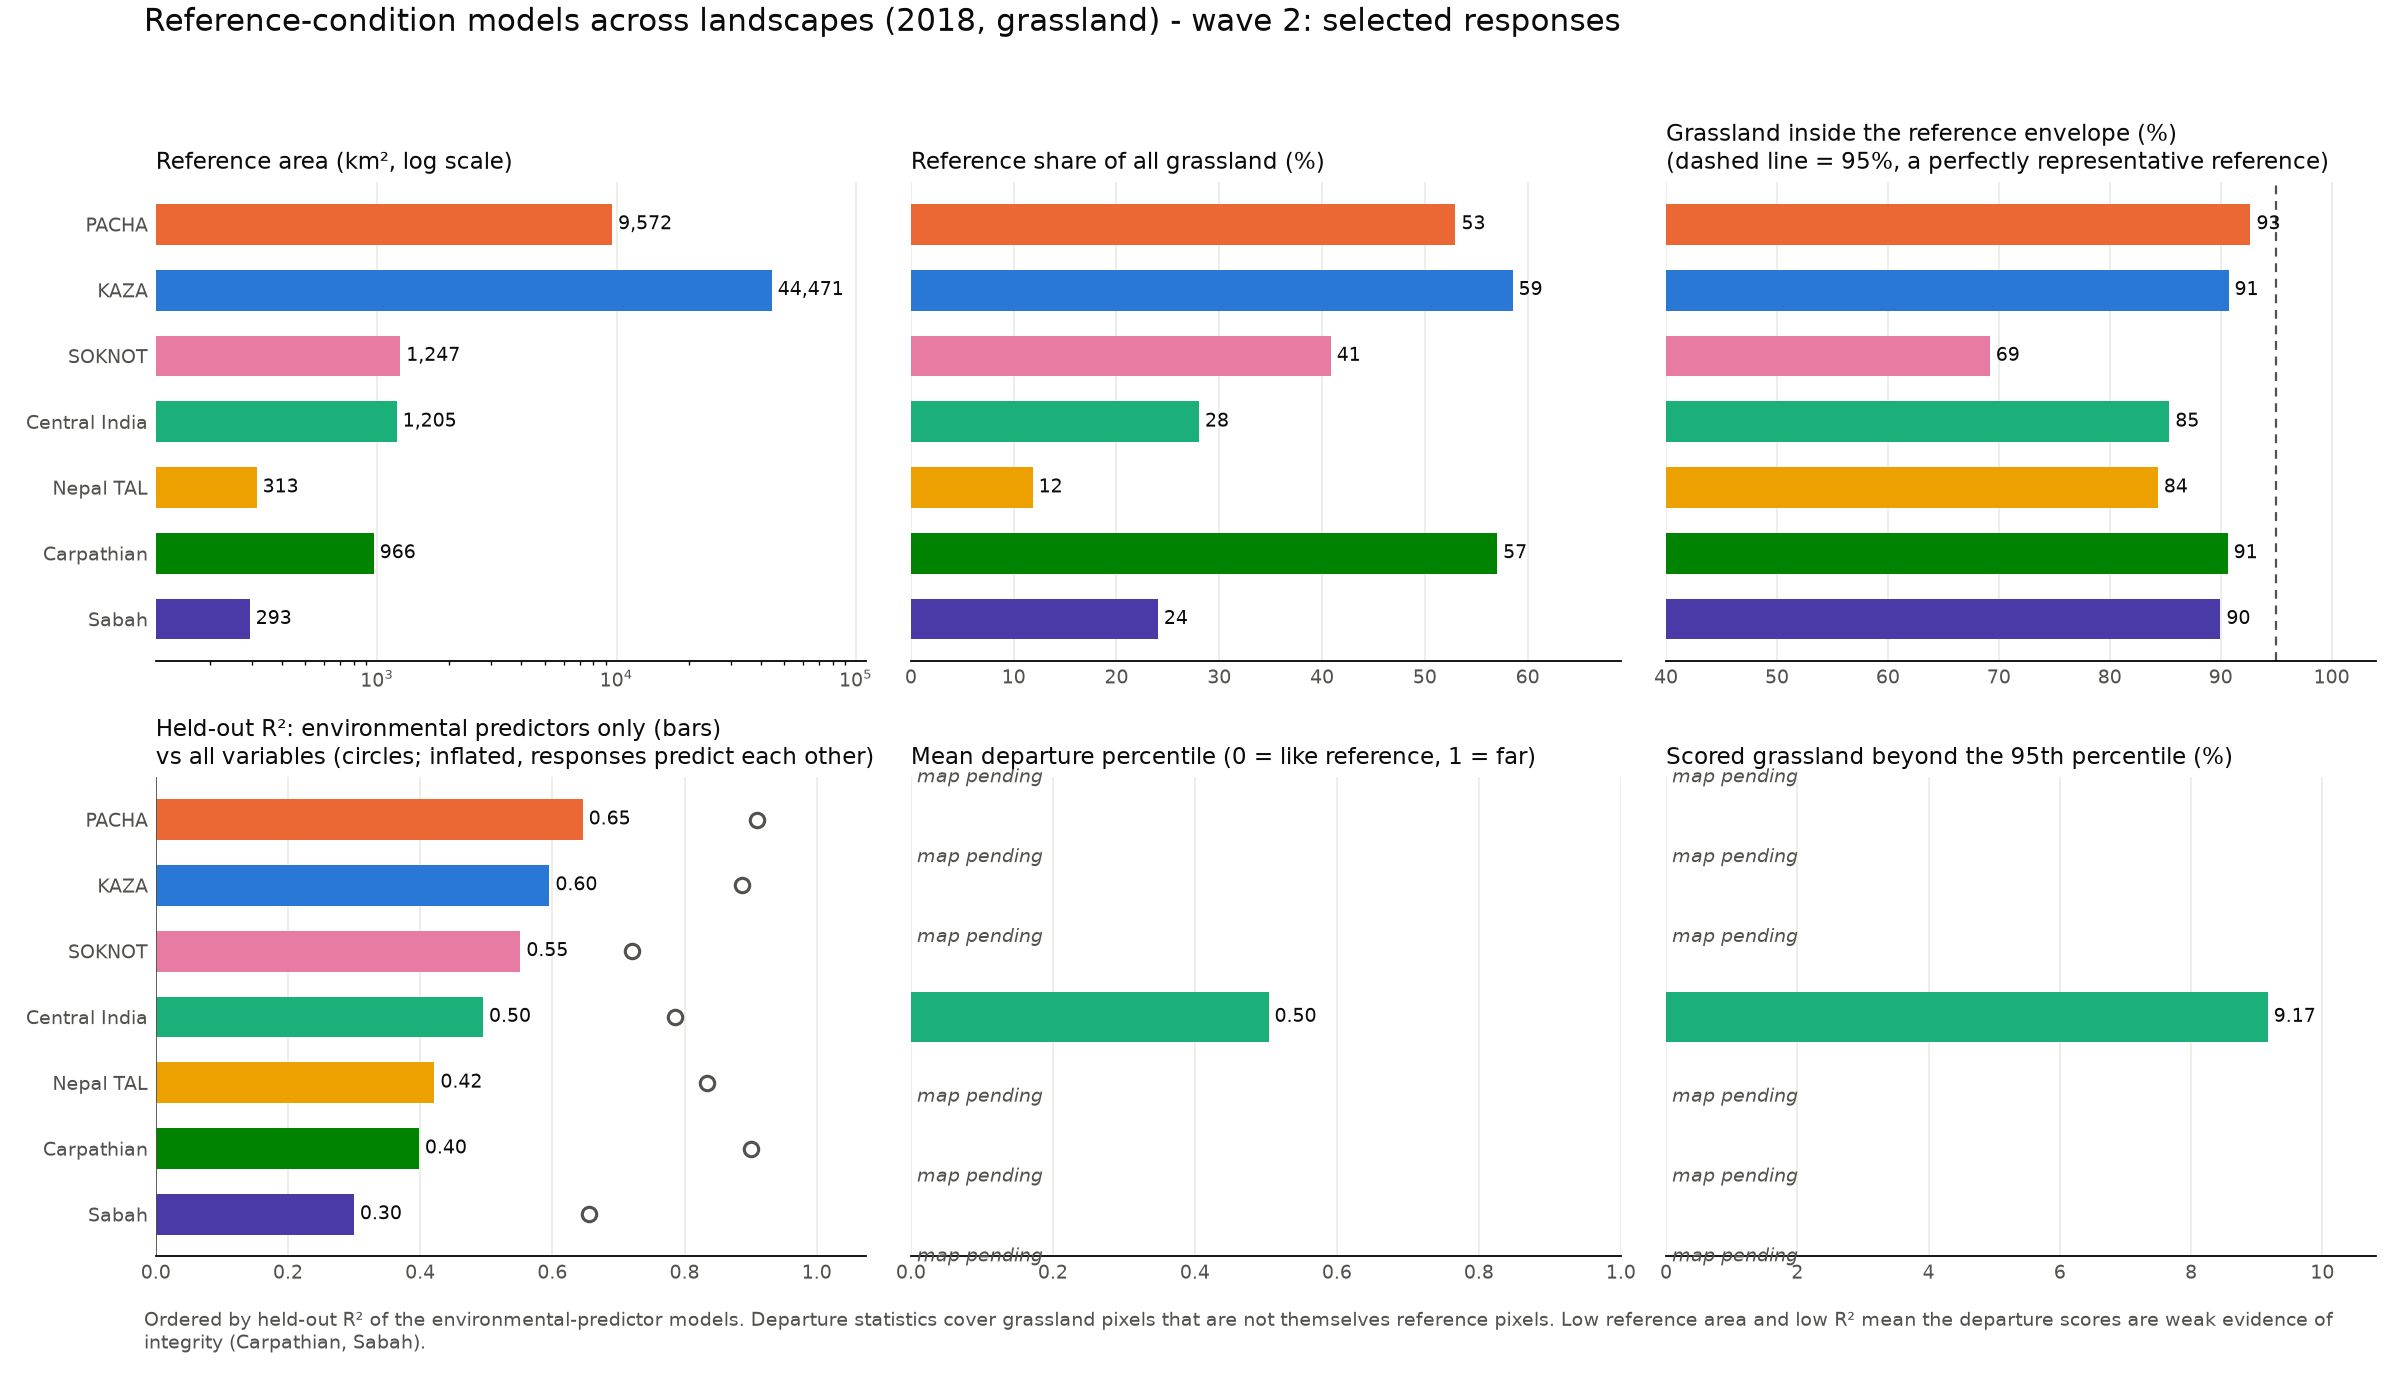
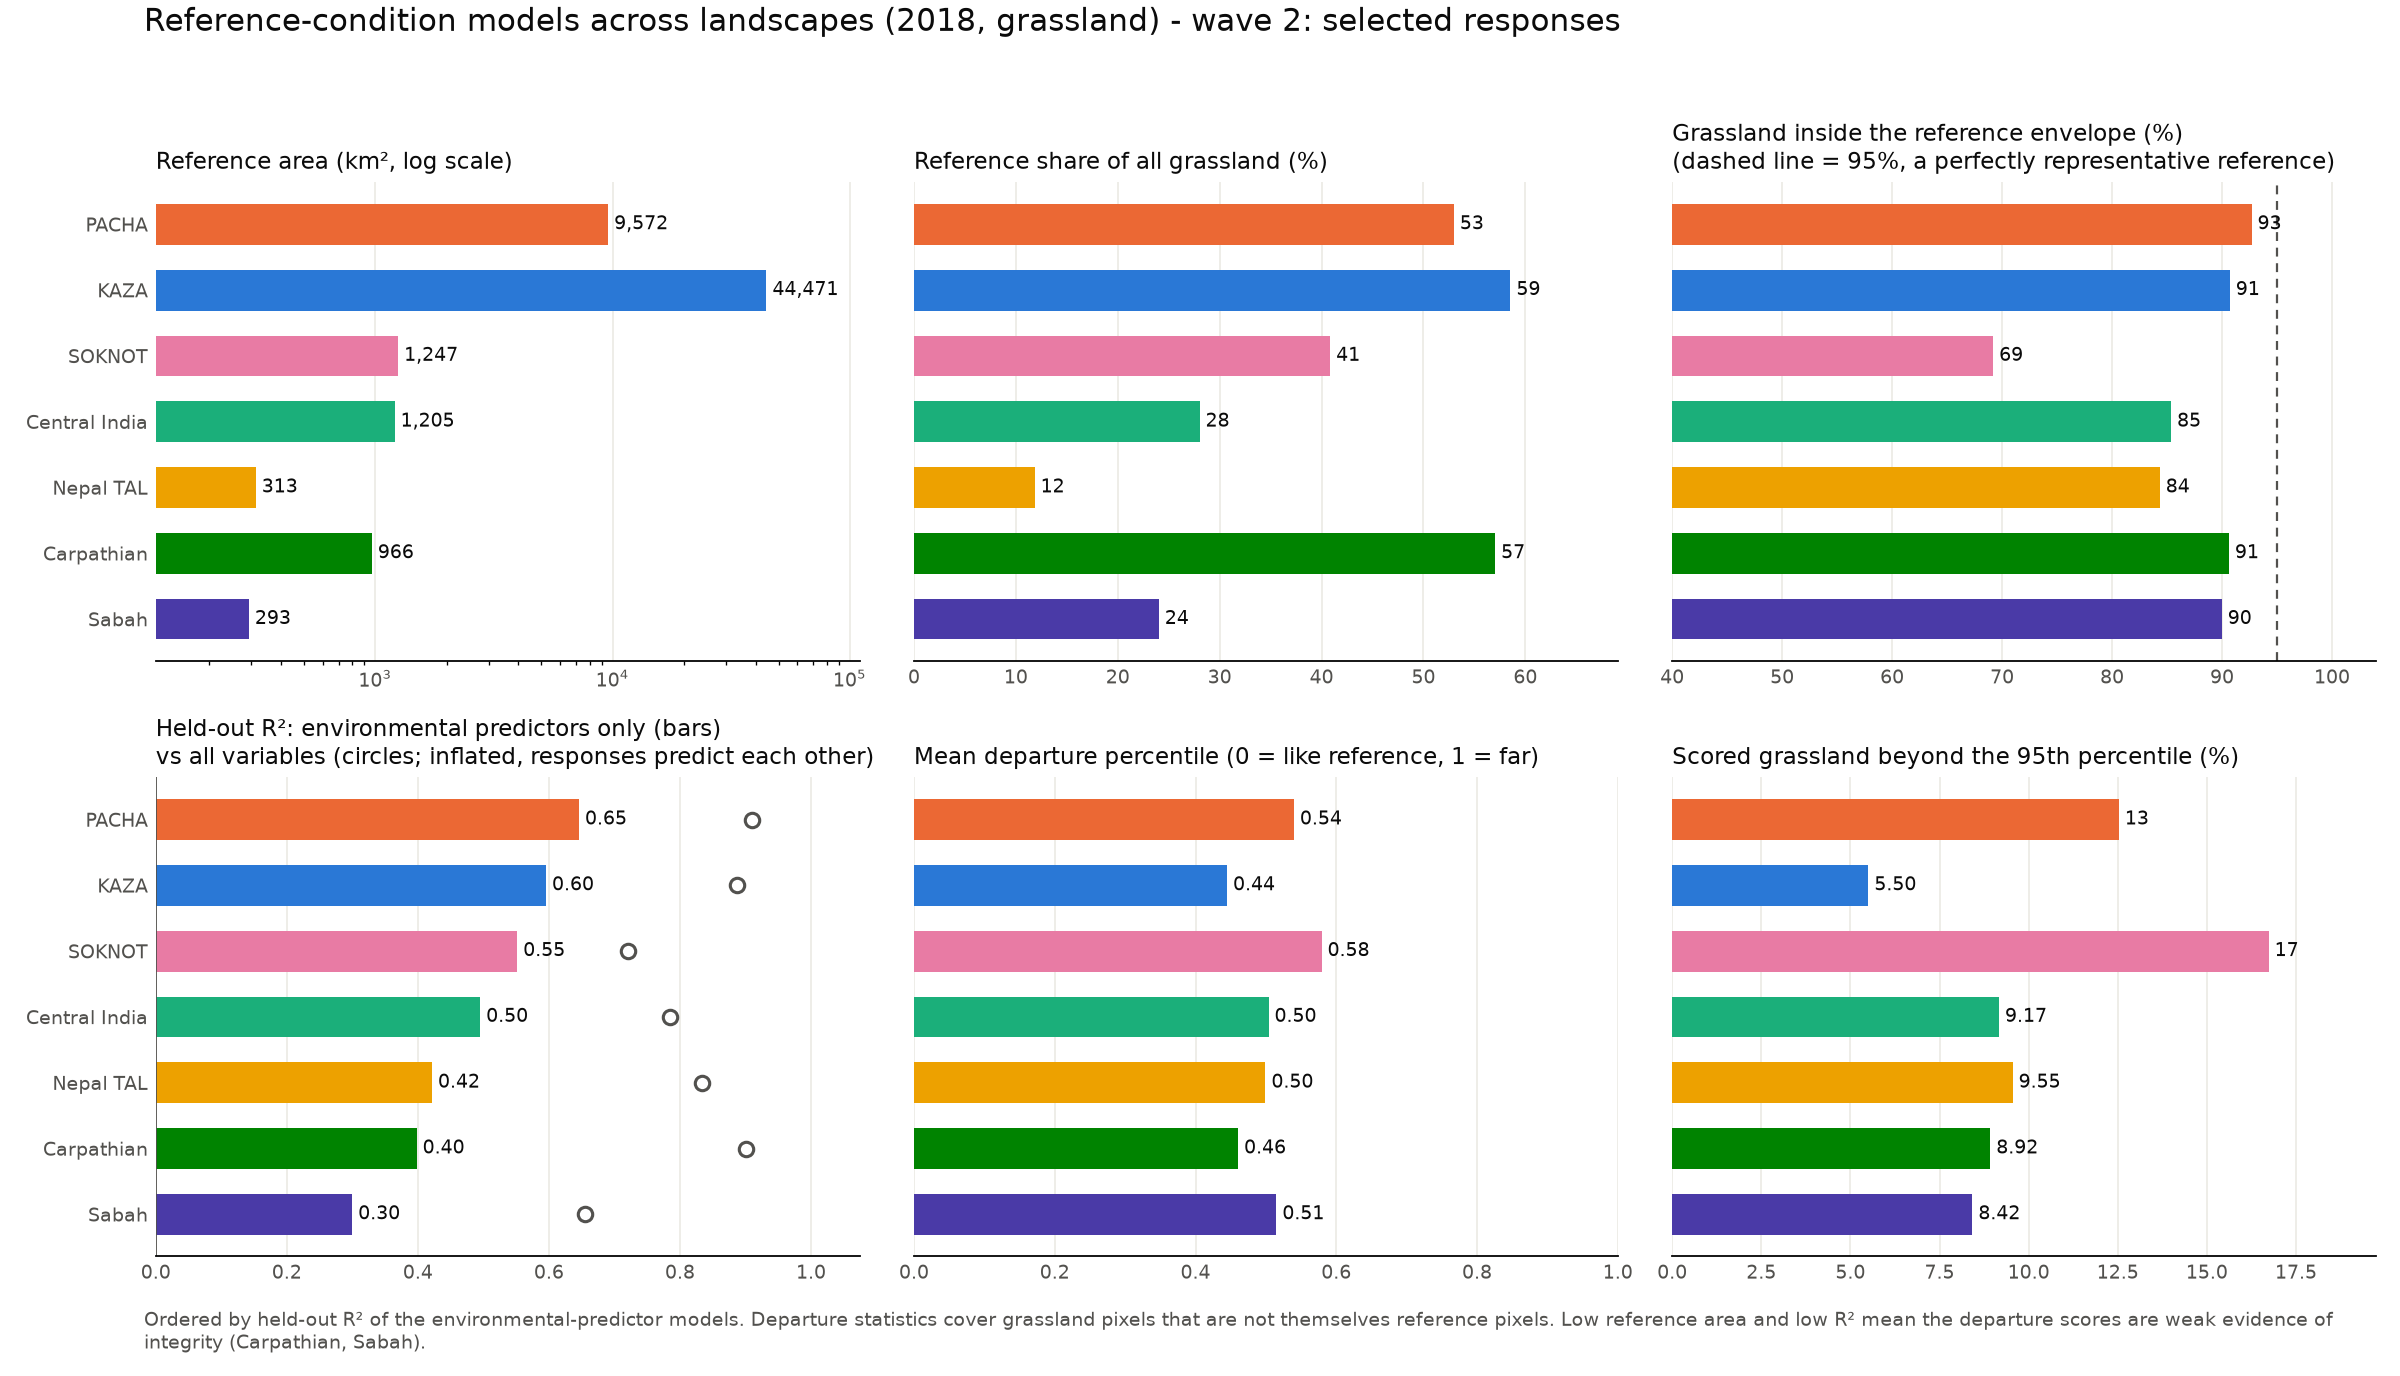
Wave 2 results: all landscapes, summary and wave 1 vs wave 2 map comparison

diff --git a/results/wave2_selected_responses/landscape_summary_w2.md b/results/wave2_selected_responses/landscape_summary_w2.md
@@ -1,9 +1,9 @@
 | landscape | grassland_km2 | reference_km2 | reference_share_pct | joint_envelope_pct | median_variable_inside_pct | responses_fitted | mean_r2_predictors_only | responses_r2_above_0.3 | mean_r2_all_variables | scored_km2 | mean_departure | pct_beyond_95th |
 |---|---|---|---|---|---|---|---|---|---|---|---|---|
-| KAZA | 75974.52 | 44470.75 | 58.53 | 90.7 | 90.53 | 13.0 | 0.6 | 11.0 | 0.89 | 0.0 | nan | nan |
-| PACHA | 18066.89 | 9572.0 | 52.98 | 92.68 | 92.0 | 13.0 | 0.65 | 12.0 | 0.91 | 0.0 | nan | nan |
+| KAZA | 75974.52 | 44470.75 | 58.53 | 90.7 | 90.53 | 13.0 | 0.6 | 11.0 | 0.89 | 29145.5 | 0.44 | 5.5 |
+| PACHA | 18066.89 | 9572.0 | 52.98 | 92.68 | 92.0 | 13.0 | 0.65 | 12.0 | 0.91 | 8241.75 | 0.54 | 12.53 |
 | Central India | 4300.5 | 1205.25 | 28.03 | 85.36 | 86.37 | 12.0 | 0.5 | 11.0 | 0.79 | 3002.5 | 0.5 | 9.17 |
-| Nepal TAL | 2645.92 | 313.25 | 11.84 | 84.33 | 89.79 | 11.0 | 0.42 | 7.0 | 0.83 | 0.0 | nan | nan |
-| SOKNOT | 3053.68 | 1247.25 | 40.84 | 69.18 | 74.87 | 6.0 | 0.55 | 5.0 | 0.72 | 0.0 | nan | nan |
-| Carpathian | 1694.68 | 966.5 | 57.03 | 90.63 | 90.46 | 5.0 | 0.4 | 3.0 | 0.9 | 0.0 | nan | nan |
-| Sabah | 1220.42 | 293.25 | 24.03 | 89.97 | 87.56 | 3.0 | 0.3 | 1.0 | 0.66 | 0.0 | nan | nan |
+| Nepal TAL | 2645.92 | 313.25 | 11.84 | 84.33 | 89.79 | 11.0 | 0.42 | 7.0 | 0.83 | 2322.0 | 0.5 | 9.55 |
+| SOKNOT | 3053.68 | 1247.25 | 40.84 | 69.18 | 74.87 | 6.0 | 0.55 | 5.0 | 0.72 | 1637.5 | 0.58 | 16.73 |
+| Carpathian | 1694.68 | 966.5 | 57.03 | 90.63 | 90.46 | 5.0 | 0.4 | 3.0 | 0.9 | 675.25 | 0.46 | 8.92 |
+| Sabah | 1220.42 | 293.25 | 24.03 | 89.97 | 87.56 | 3.0 | 0.3 | 1.0 | 0.66 | 837.25 | 0.51 | 8.42 |

diff --git a/results/wave2_selected_responses/README.md b/results/wave2_selected_responses/README.md
@@ -16,4 +16,8 @@ over the kept responses only.
 - Central India (boundary): departure map vs wave 1 - Pearson 0.91 on 12,010 scored pixels;
   mean departure 0.52 -> 0.50; share beyond the 95th percentile 10.5% -> 9.2%; 2.9% of
   pixels change side of the 95th-percentile line.
-- Other landscapes' wave-2 maps: pending (need the tiles on the second machine).
+- All seven wave-2 maps are now done (`landscape_summary_w2.*`, `wave1_vs_wave2_maps.csv`).
+  Rank correlation of wave-1 vs wave-2 departure maps: PACHA 1.00 (all 13 responses kept),
+  KAZA 0.99, Nepal TAL 0.95, Central India 0.91, SOKNOT 0.84, Sabah 0.79, Carpathian 0.73.
+  The fewer responses kept, the more the map changes: 27% (SOKNOT), 33% (Carpathian) and 40%
+  (Sabah) of scored pixels move by more than 0.2 in departure percentile.
